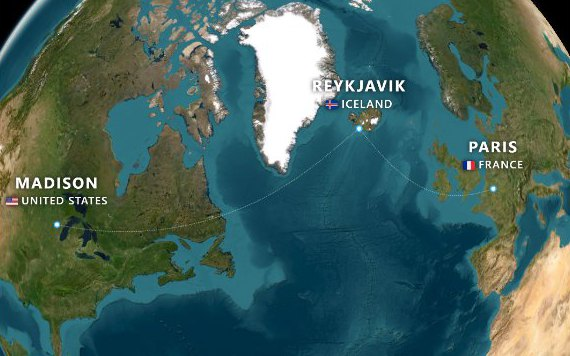
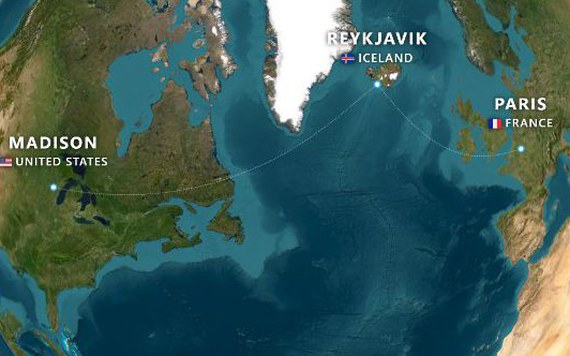
Route Animator: shot without the black side bars, hover preview re-cropped inside the globe

diff --git a/index.html b/index.html
@@ -880,8 +880,8 @@ h2 .rev, .minor h3 .rev{display:inline-block; overflow:clip; overflow-clip-margi
         <canvas class="film-gl" aria-hidden="true"></canvas>
         <ol class="film-caps">
         <!-- work:caps -->
-        <li class="cap l" id="route-animator" data-src="assets/route-animator.jpg" data-thumb="assets/route-animator-peek.jpg" data-c="38BDF8" data-f="BAE6FD" style="--i:0">
-          <figure class="cap-shot"><img src="assets/route-animator.jpg" width="1000" height="625" alt="A Madison to Reykjavik to Paris flight drawn on the satellite globe in Route Animator" loading="lazy" decoding="async"></figure>
+        <li class="cap l" id="route-animator" data-src="assets/route-animator-frame.jpg" data-thumb="assets/route-animator-peek.jpg" data-c="38BDF8" data-f="BAE6FD" style="--i:0">
+          <figure class="cap-shot"><img src="assets/route-animator-frame.jpg" width="572" height="308" alt="A Madison to Reykjavik to Paris flight drawn on the satellite globe in Route Animator" loading="lazy" decoding="async"></figure>
           <div class="pg"><div class="pg-in">
             <p class="cap-n" data-k style="--k:0">01 / 08 &middot; <span class="en">Web app</span><span class="zh" lang="zh-CN">网页应用</span></p>
             <h3 aria-label="Route Animator"><span aria-hidden="true"><span class="wd"><span class="ch" style="--c:0">R</span><span class="ch" style="--c:1">o</span><span class="ch" style="--c:2">u</span><span class="ch" style="--c:3">t</span><span class="ch" style="--c:4">e</span></span> <span class="wd"><span class="ch" style="--c:6">A</span><span class="ch" style="--c:7">n</span><span class="ch" style="--c:8">i</span><span class="ch" style="--c:9">m</span><span class="ch" style="--c:10">a</span><span class="ch" style="--c:11">t</span><span class="ch" style="--c:12">o</span><span class="ch" style="--c:13">r</span></span></span></h3>
